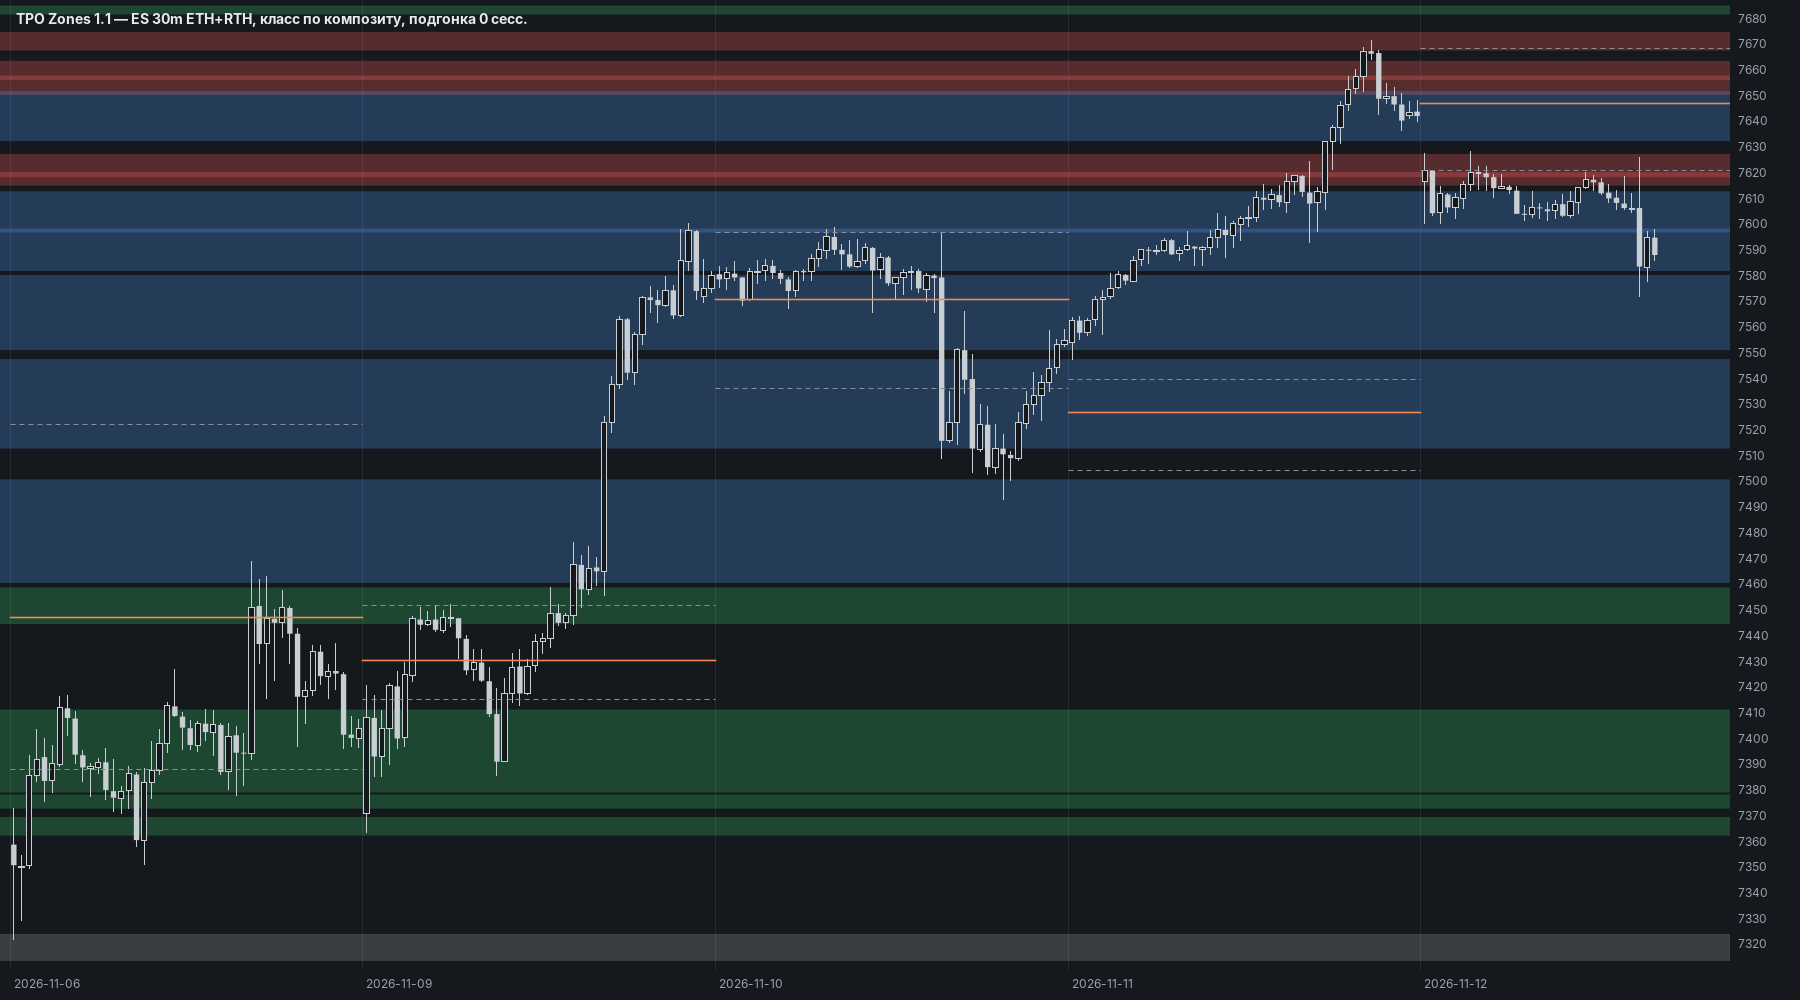
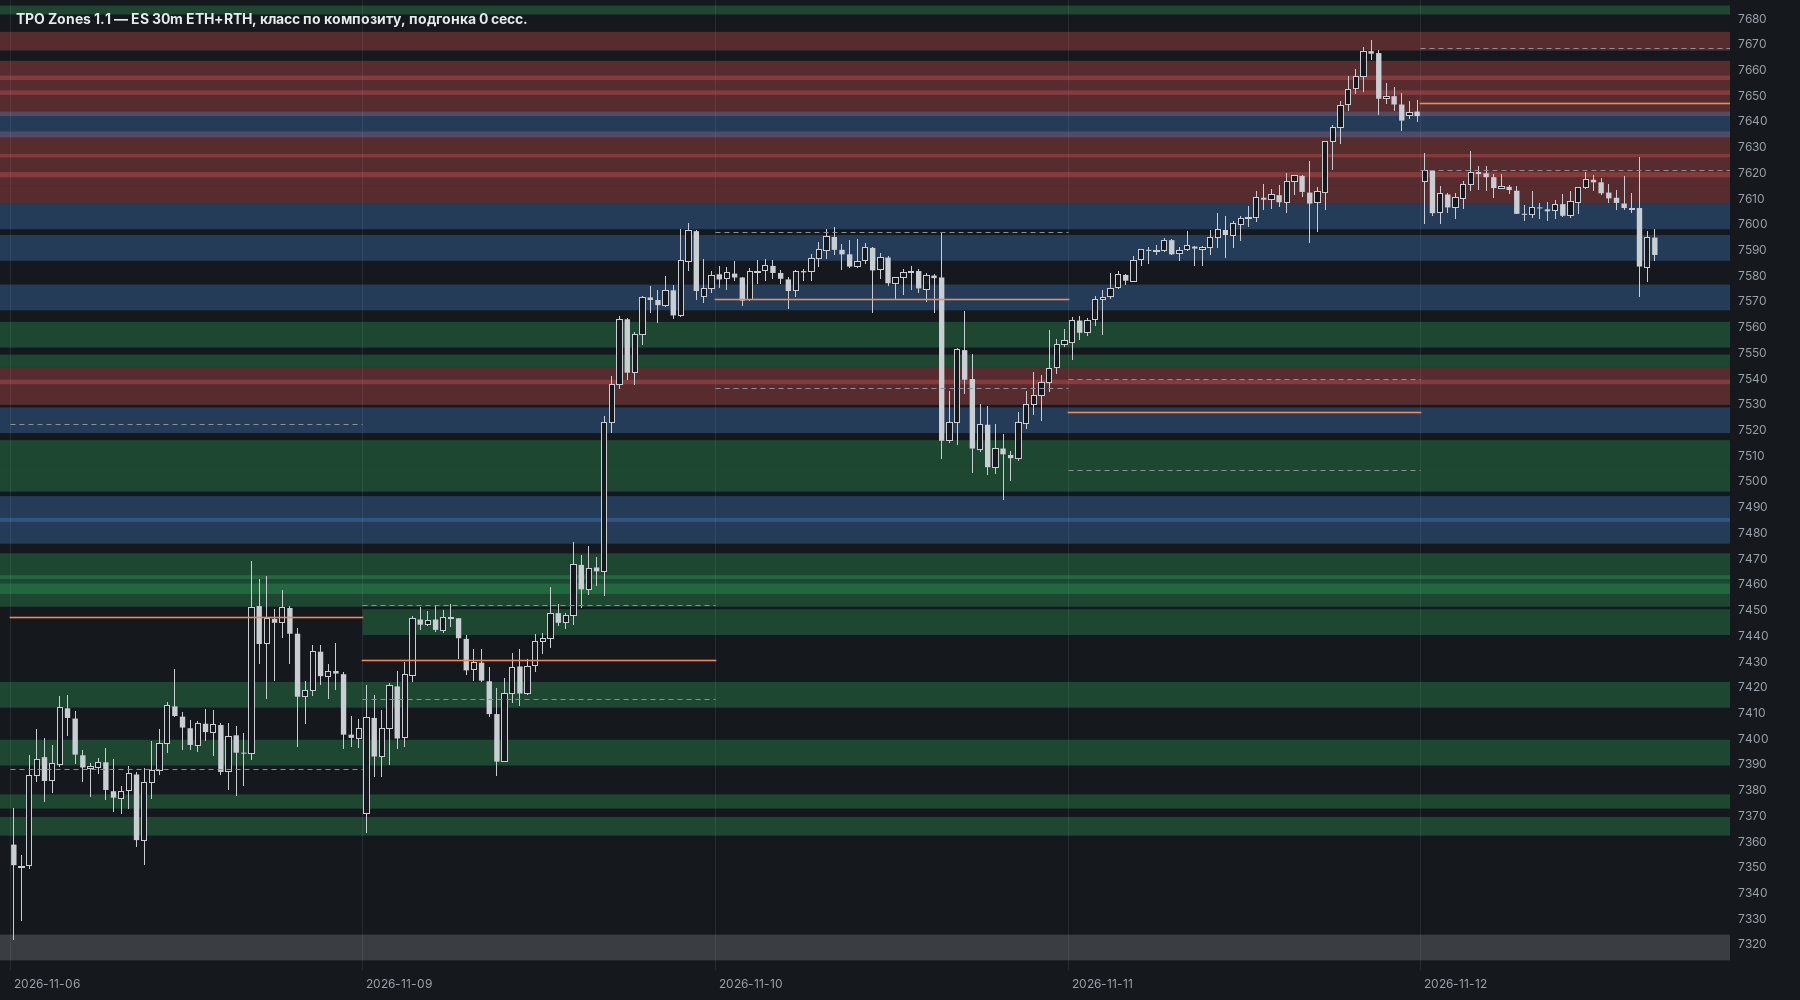
Study: cap zones at 10 points
A day HVN band or composite core wider than the limit (10 points by default,
0 = no limit) narrows to the window with the POC and the most TPO. Without it,
primary zones kept a wide first-day band (only merging was capped) and cores
reached 40 points. Parity runs keep no limit, as on the zone map page.

Claude-Session: https://claude.ai/code/session_01PTkoju45i5ZphCgSn4vnkL

diff --git a/motivewave/src/patterns/zones/ZoneEngine.java b/motivewave/src/patterns/zones/ZoneEngine.java
@@ -78,7 +78,9 @@ public final class ZoneEngine {
         // режим «по композиту»
         public boolean compositeMode = false;     // класс зоны по положению в композите, а не по отторжениям
         public boolean coreByVa = false;          // ядро композита: VA (иначе HVN-полоса вокруг POC)
-        public double coreAbsorb = 0.30;          // зона, на > 30% своей ширины лежащая на ядре, поглощается им
+        public double coreAbsorb = 0.30;
+        public double zoneMaxWidthPts = 0;        // > 0: HVN-полоса дня и ядро композита шире — сужаются до окна
+                                                  // с POC и максимумом TPO (на странице карты зон лимита нет)          // зона, на > 30% своей ширины лежащая на ядре, поглощается им
         public int minWickTicks = 2;
         // подгонка границ
         public int alignSessions = 0;            // 0 — без подгонки (по умолчанию на странице)
@@ -274,7 +276,8 @@ public final class ZoneEngine {
                 int[] c = d.profile.counts; int mx = 0;
                 for (int t = d.val; t <= d.vah; t++) mx = Math.max(mx, c[t - d.profile.low]);
                 d.hvnTpo = mx;
-                int[] band = hvnBand(d.profile, d.poc, p.hvnShare);
+                int[] band = narrow(d.profile, hvnBand(d.profile, d.poc, p.hvnShare), d.poc,
+                        (int) Math.round(p.zoneMaxWidthPts / tick));
                 d.bandLo = band[0]; d.bandHi = band[1];
             }
         }
@@ -485,6 +488,7 @@ public final class ZoneEngine {
             Zone core = new Zone();
             core.k = K_CORE; core.av = endDay; core.src = "core";
             int[] band = p.coreByVa ? new int[]{va[1], va[2]} : hvnBand(cp, va[0], p.hvnShare);
+            band = narrow(cp, band, va[0], (int) Math.round(p.zoneMaxWidthPts / p.tick));
             core.lo = band[0] * p.tick; core.hi = band[1] * p.tick;
             c.core = core;
             comps.add(c);
@@ -499,6 +503,20 @@ public final class ZoneEngine {
             z.k = K_GREY; z.lo = band[0] * p.tick; z.hi = band[1] * p.tick;
             greyComp.add(z);
         }
+    }
+
+    /** Полоса [lo, hi] шире maxW тиков → окно шириной maxW внутри неё, содержащее POC, с максимумом TPO
+     *  (при равенстве — с POC ближе к середине). */
+    static int[] narrow(Profile p, int[] band, int poc, int maxW) {
+        if (maxW <= 0 || band[1] - band[0] <= maxW) return band;
+        int bestLo = band[0]; long best = -1; double bestOff = Double.MAX_VALUE;
+        for (int lo = Math.max(band[0], poc - maxW); lo <= Math.min(poc, band[1] - maxW); lo++) {
+            long sum = 0;
+            for (int t = lo; t <= lo + maxW; t++) sum += p.counts[t - p.low];
+            double off = Math.abs(lo + maxW / 2.0 - poc);
+            if (sum > best || (sum == best && off < bestOff)) { best = sum; bestLo = lo; bestOff = off; }
+        }
+        return new int[]{bestLo, bestLo + maxW};
     }
 
     // ------------------------------------------------------------------ первородные зоны

diff --git a/motivewave/src/patterns/zones/TpoZonesStudy.java b/motivewave/src/patterns/zones/TpoZonesStudy.java
@@ -56,7 +56,7 @@ import patterns.zones.ZoneEngine.Result;
 public class TpoZonesStudy extends Study {
 
     // ---- ключи настроек
-    static final String MODE = "compositeMode", CORE_VA = "coreByVa", BAR30 = "bar30", HISTORY_DAYS = "historyDays", TZ = "tz", RTH_START = "rthStart",
+    static final String ZONE_W = "zoneMaxW", MODE = "compositeMode", CORE_VA = "coreByVa", BAR30 = "bar30", HISTORY_DAYS = "historyDays", TZ = "tz", RTH_START = "rthStart",
             RTH_END = "rthEnd", ETH_START = "ethStart", TICK = "tick", VA_PCT = "vaPct", HVN_SHARE = "hvnShare",
             HVN_MIN = "hvnMin", HVN_MAX = "hvnMax", GHVN_MIN = "greyHvnMin", GHVN_MAX = "greyHvnMax",
             MERGE_OV = "mergeOv", MERGE_W = "mergeW", COMP_DAYS = "compDays", GREY_HIST = "greyHist",
@@ -141,6 +141,7 @@ public class TpoZonesStudy extends Study {
         g.addRow(new IntegerDescriptor(GHVN_MAX, "Серые: HVN в VA до, TPO", 7, 1, 30, 1));
         g.addRow(new DoubleDescriptor(MERGE_OV, "Пересечение для склейки, доля", 0.50, 0.05, 1.0, 0.05));
         g.addRow(new DoubleDescriptor(MERGE_W, "Ширина первородной зоны до, п.", 10.0, 1, 50, 0.5));
+        g.addRow(new DoubleDescriptor(ZONE_W, "Зоны не шире, п.: HVN-полоса дня и ядро композита сужаются до окна с POC (0 — без лимита)", 10.0, 0, 60, 0.5));
         g.addRow(new IntegerDescriptor(COMP_DAYS, "Композит «старый баланс» от, дней", 3, 2, 30, 1));
         g.addRow(new IntegerDescriptor(GREY_HIST, "Молодая первородная серая, пока истории < дней", 2, 0, 20, 1));
         g.addRow(new DoubleDescriptor(GREY_WMIN, "Серые: ширина от, п.", 1.0, 0, 50, 0.25));
@@ -232,6 +233,7 @@ public class TpoZonesStudy extends Study {
         p.greyMinWidthPts = st.getDouble(GREY_WMIN, 1.0); p.greyMaxWidthPts = st.getDouble(GREY_WMAX, 10.0);
         p.rejectionShare = st.getDouble(REJ_SHARE, 0.6);
         p.compositeMode = st.getBoolean(MODE, true);
+        p.zoneMaxWidthPts = st.getDouble(ZONE_W, 10.0);
         p.coreByVa = st.getBoolean(CORE_VA, false);
         p.minWickTicks = st.getInteger(WICK, 2);
         p.sessions = st.getInteger(SESSIONS, 250);

diff --git a/motivewave/parity/Preview.java b/motivewave/parity/Preview.java
@@ -42,6 +42,7 @@ public class Preview {
         Params p = new Params();
         if (a.length > 3) p.alignSessions = Integer.parseInt(a[3]);
         if (a.length > 5) p.compositeMode = a[5].equals("comp");
+        p.zoneMaxWidthPts = 10;                        // как в индикаторе по умолчанию
         Result res = ZoneEngine.run(bars, p);
         ZonePlan plan = ZonePlan.of(res, p);
         int top = a.length > 4 ? Integer.parseInt(a[4]) : 0;

diff --git a/motivewave/README.md b/motivewave/README.md
@@ -30,6 +30,11 @@
   зона из серого источника, лежащая на первородной, тоже;
 - зоны вне всех композитов — серые, пока их не накроет композит.
 
+**Ширина зон — не больше 10 п.** (вкладка «Расчёт», 0 — без лимита). HVN-полоса дня и ядро
+композита шире 10 п. сужаются до окна в 10 п. с POC и максимумом TPO. Без лимита отдельные
+первородные зоны и ядра бывают до 30–40 п.: склейка дней ограничена 10 п., а полоса первого дня —
+нет (так же на странице карты зон). Старые балансы (VA композита, по умолчанию выключены) не сужаются.
+
 Последние 250 сессий ES, по сравнению с классом по отторжениям: зон на сессию 63 против 79,
 пересекающихся пар 15.5 против 33.8, смен цвета 23 против 97 (почти все — «серая → класс»,
 когда складывается композит). Режим «по отторжениям» (как на странице карты зон) —
